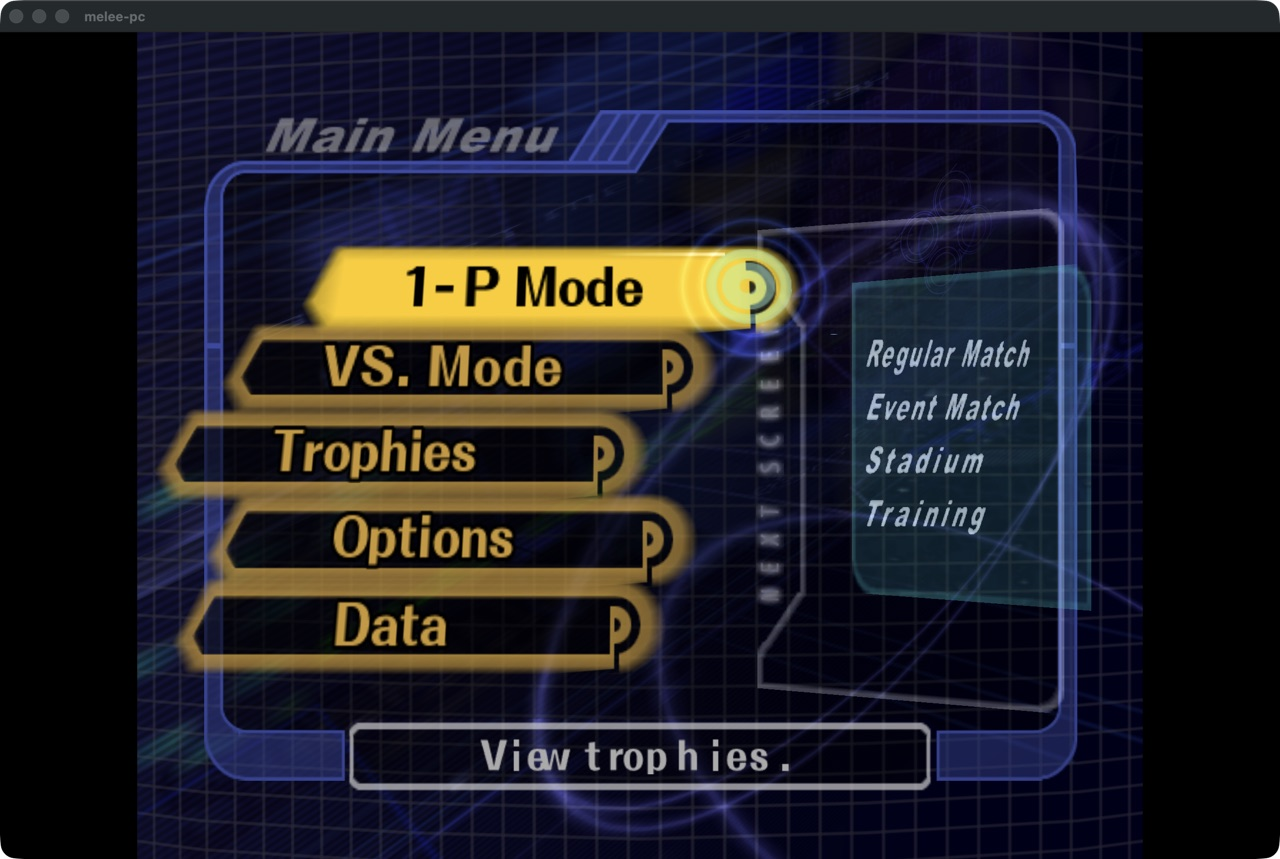
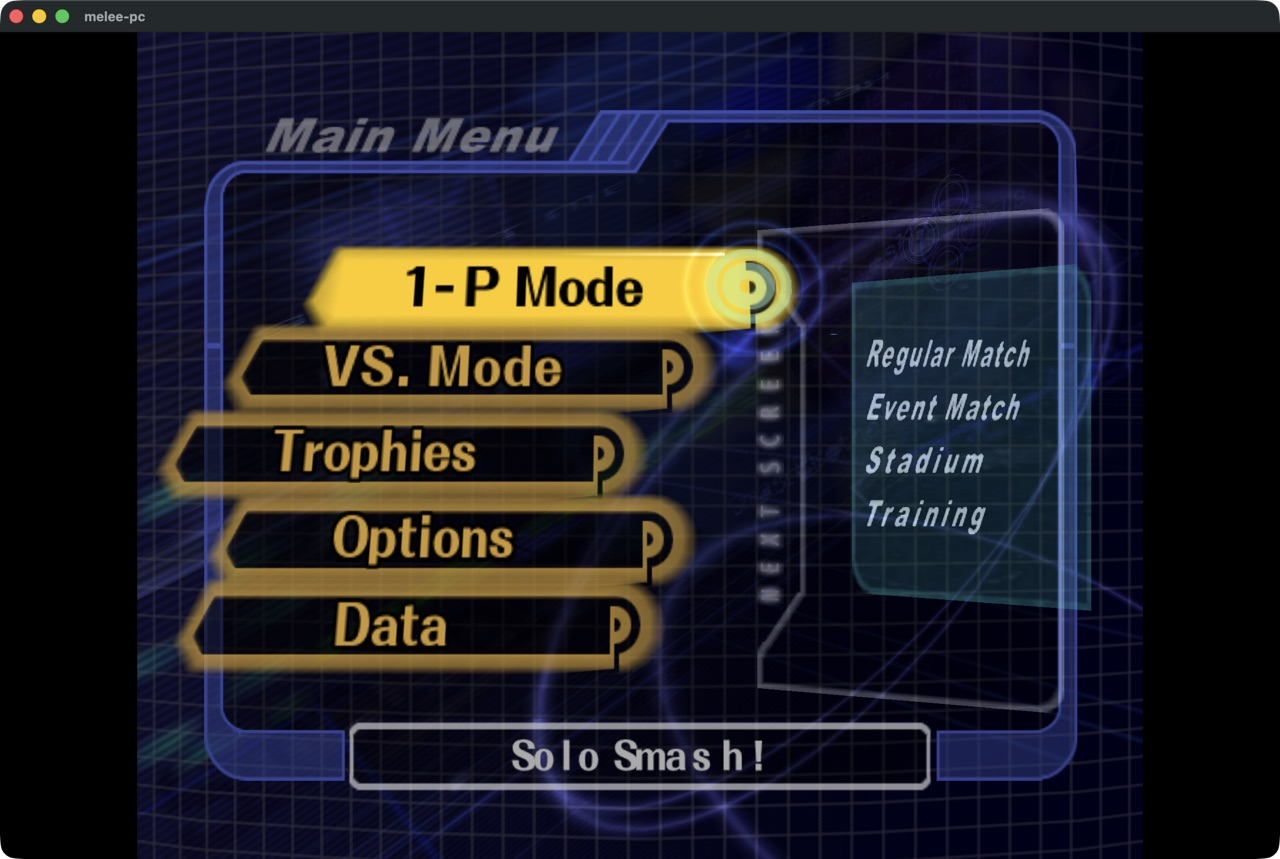
PAL: remap the hardcoded SIS string indices per table
The NTSC-U code indexes SdMenu, SdSlChr, SdClr, SdToy and SdToyExp by
constants; the PAL tables hold the same text shifted by a few entries
(and SdToyExp splits game and platform into separate blocks). Menu
footers described the item two rows down and the trophy gallery paired
a trophy's model with another one's name and text.

region.c gains a table of piecewise shifts read off the PAL archives,
sislib remembers the symbol each font slot was loaded from (minus the
USA "_E" suffix) and applies the shift in HSD_SisLib_803A6368; a Raw
variant serves code that already speaks the PAL layout (the CSS
header), and tylist's two direct table reads go through the same map.

diff --git a/src/sysdolphin/baselib/sislib.c b/src/sysdolphin/baselib/sislib.c
@@ -5,6 +5,7 @@
 #include <string.h>
 #ifdef TARGET_PC
 #include "pc/pc.h"
+#include "pc/region.h"
 #endif
 
 #include "cobj.h"
@@ -559,8 +560,31 @@ int HSD_SisLib_803A611C(int font_idx, HSD_GObj* parent_gobj, u16 class_id,
     return count;
 }
 
+#ifdef TARGET_PC
+/* Symbol each font slot was loaded from, for pc_region_sis_index(). Stored
+ * without the USA "_E" suffix when the PAL alias resolved it. */
+static char s_font_symbol[4][64];
+const char* HSD_SisLib_FontSymbol(s32 font_idx)
+{
+    return (font_idx >= 0 && font_idx < 4) ? s_font_symbol[font_idx] : NULL;
+}
+#endif
+
 void HSD_SisLib_803A62A0(s32 font_idx, char* archive_name, char* symbol_name)
 {
+#ifdef TARGET_PC
+    if (font_idx >= 0 && font_idx < 4) {
+        size_t len = strlen(symbol_name);
+        if (len > 2 && strcmp(symbol_name + len - 2, "_E") == 0) {
+            len -= 2;
+        }
+        if (len >= sizeof s_font_symbol[0]) {
+            len = sizeof s_font_symbol[0] - 1;
+        }
+        memcpy(s_font_symbol[font_idx], symbol_name, len);
+        s_font_symbol[font_idx][len] = '\0';
+    }
+#endif
     HSD_Archive* tmp = HSD_SisLib_803A945C(archive_name);
     HSD_SisLib_804D1110[font_idx] = tmp;
     if (tmp == NULL) {
@@ -594,7 +618,24 @@ void HSD_SisLib_803A62A0(s32 font_idx, char* archive_name, char* symbol_name)
     }
 }
 
+#ifdef TARGET_PC
+static void sis_bind(HSD_Text* text, s32 sis_idx);
+
 void HSD_SisLib_803A6368(HSD_Text* text, s32 sis_idx)
+{
+    sis_bind(text, pc_region_sis_index(HSD_SisLib_FontSymbol(text->font_idx), sis_idx));
+}
+
+/* Bind by PAL-native index; for code that already speaks the PAL layout. */
+void HSD_SisLib_803A6368Raw(HSD_Text* text, s32 sis_idx)
+{
+    sis_bind(text, sis_idx);
+}
+
+static void sis_bind(HSD_Text* text, s32 sis_idx)
+#else
+void HSD_SisLib_803A6368(HSD_Text* text, s32 sis_idx)
+#endif
 {
     /* The font's SIS symbol is an on-disc array of 32-bit pointer slots. */
     DiscU32* sis_table;

diff --git a/src/pc/region.c b/src/pc/region.c
@@ -142,3 +142,37 @@ void pc_region_set_sis_kerning(const unsigned char* kerning, unsigned len) {
     memcpy(&HSD_SisLib_8040CB00[PAL_BLANK_GLYPH * 2], space_kern, 2);
     memcpy(HSD_SisLib_8040C680, k_pal_sis_codes, sizeof k_pal_sis_codes);
 }
+
+/* PAL string tables are the USA ones with entries removed or inserted in
+ * front of the ranges the code indexes, so each is a piecewise shift.
+ * Ranges were read off the PAL archives (tools/audit: SdMenu footers,
+ * SdSlChr rule descriptions, SdToy names/counters, SdToyExp blocks, SdClr). */
+struct sis_shift {
+    const char* symbol;
+    int lo, hi; /* USA index range [lo, hi) */
+    int delta;
+};
+static const struct sis_shift k_pal_sis_shifts[] = {
+    {"SIS_MenuData", 2, 0x7FFF, -2},
+    {"SIS_ClearData", 2, 0x7FFF, -2},
+    {"SIS_SelCharData", 28, 74,
+        -2},                     /* rule/name-entry text; the header above is composed in code */
+    {"SIS_ToyData", 3, 298, -2}, /* trophy names, id + 3 */
+    {"SIS_ToyData", 302, 0x7FFF, -9},    /* list counters, digits, messages */
+    {"SIS_ToyDataExp", 3, 297, -2},      /* descriptions, id + 3 */
+    {"SIS_ToyDataExp", 297, 591, -3},    /* game of origin, id + 297 */
+    {"SIS_ToyDataExp", 591, 0x7FFF, -4}, /* platform / Smash move, id + 591 */
+};
+
+int pc_region_sis_index(const char* symbol, int idx) {
+    if (!s_is_pal || symbol == NULL) {
+        return idx;
+    }
+    for (size_t i = 0; i < sizeof k_pal_sis_shifts / sizeof k_pal_sis_shifts[0]; i++) {
+        const struct sis_shift* s = &k_pal_sis_shifts[i];
+        if (strcmp(s->symbol, symbol) == 0 && idx >= s->lo && idx < s->hi) {
+            return idx + s->delta;
+        }
+    }
+    return idx;
+}

diff --git a/src/melee/ty/tylist.c b/src/melee/ty/tylist.c
@@ -1,5 +1,12 @@
 #include "tylist.h"
 
+#ifdef TARGET_PC
+#include "pc/region.h"
+#define SIS_IDX(font, idx) pc_region_sis_index(HSD_SisLib_FontSymbol(font), (idx))
+#else
+#define SIS_IDX(font, idx) (idx)
+#endif
+
 #include <Runtime/platform.h>
 
 #include <placeholder.h>
@@ -69,7 +76,7 @@ static void order_data_0(void)
 /// Formats a number into a string buffer using digit glyphs from the font.
 char* _tyList_80312834(char* buf, u32 num)
 {
-    u8* lookup = DP(u8, ((DiscU32*) HSD_SisLib_804D1124[0])[0x4E8 / 4].v);
+    u8* lookup = DP(u8, ((DiscU32*) HSD_SisLib_804D1124[0])[SIS_IDX(0, 0x4E8 / 4)].v);
     u32 idx;
     u32 original = num;
 
@@ -166,7 +173,7 @@ void _tyList_80312904(TyListArg* row, s8 arg1)
     text->font_size.y = 0.029f;
     HSD_SisLib_803A6368(row->texts[1], 0x13B);
 
-    digits = DP(u8, ((DiscU32*) HSD_SisLib_804D1124[0])[0x4B8 / 4 + row->x28].v);
+    digits = DP(u8, ((DiscU32*) HSD_SisLib_804D1124[0])[SIS_IDX(0, 0x4B8 / 4 + row->x28)].v);
     _tyList_80312834((char*) digits, Toy_803048C0(Toy_80308354(row->idx)));
 
     row->texts[2]->default_alignment = 2;

diff --git a/src/melee/mn/mncharsel.c b/src/melee/mn/mncharsel.c
@@ -980,7 +980,11 @@ void mnCharSel_8025D1C4(int port, int mode)
 #ifdef TARGET_PC
             /* On PAL the token line lives in the scratch built at line ~890
              * (CSS_PAL_TOKEN + digits); its table slot 0x56 is unrelated. */
-            HSD_SisLib_803A6368(text, pc_region_is_pal() ? CSS_PAL_TOKEN : 0x56);
+            if (pc_region_is_pal()) {
+                HSD_SisLib_803A6368Raw(text, CSS_PAL_TOKEN);
+            } else {
+                HSD_SisLib_803A6368(text, 0x56);
+            }
 #else
             HSD_SisLib_803A6368(text, 0x56);
 #endif
@@ -5282,7 +5286,11 @@ s32 mnCharSel_802640A0(void)
         text->font_size.x = 0.07f;
         text->font_size.y = 0.07f;
 #ifdef TARGET_PC
-        HSD_SisLib_803A6368(text, pc_region_is_pal() ? CSS_PAL_SCRATCH : 0x4A);
+        if (pc_region_is_pal()) {
+            HSD_SisLib_803A6368Raw(text, CSS_PAL_SCRATCH);
+        } else {
+            HSD_SisLib_803A6368(text, 0x4A);
+        }
 #else
         HSD_SisLib_803A6368(text, 0x4A);
 #endif

diff --git a/src/pc/region.h b/src/pc/region.h
@@ -23,6 +23,11 @@ bool pc_region_is_pal(void);
  * NULL when the symbol is genuinely required. */
 const void* pc_region_missing_symbol(const char* symbol_name);
 
+/* Map a SIS string index the NTSC-U code hardcodes to the entry holding the
+ * same text in the PAL archive whose SIS table symbol is `symbol`. Returns
+ * idx unchanged for USA discs and for tables with no known difference. */
+int pc_region_sis_index(const char* symbol, int idx);
+
 /* Called by discfont with the sislib kerning table read from the disc's DOL
  * (2 bytes per glyph). On PAL this also rewrites the code's SJIS->glyph table
  * to the PAL atlas layout. */

diff --git a/src/sysdolphin/baselib/sislib.h b/src/sysdolphin/baselib/sislib.h
@@ -138,6 +138,10 @@ void HSD_SisLib_803A660C(s32, s32, s32);
 u8* HSD_SisLib_803A6530(s32, s32, s32);
 u8* HSD_SisLib_803A6478(u8*, u8*);
 void HSD_SisLib_803A6368(HSD_Text*, s32);
+#ifdef TARGET_PC
+void HSD_SisLib_803A6368Raw(HSD_Text*, s32);
+const char* HSD_SisLib_FontSymbol(s32 font_idx);
+#endif
 void HSD_SisLib_803A62A0(s32, char*, char*);
 int HSD_SisLib_803A611C(int, HSD_GObj*, u16, u8, u8, u8, u8, u32);
 void lbl_803A60EC(void);
